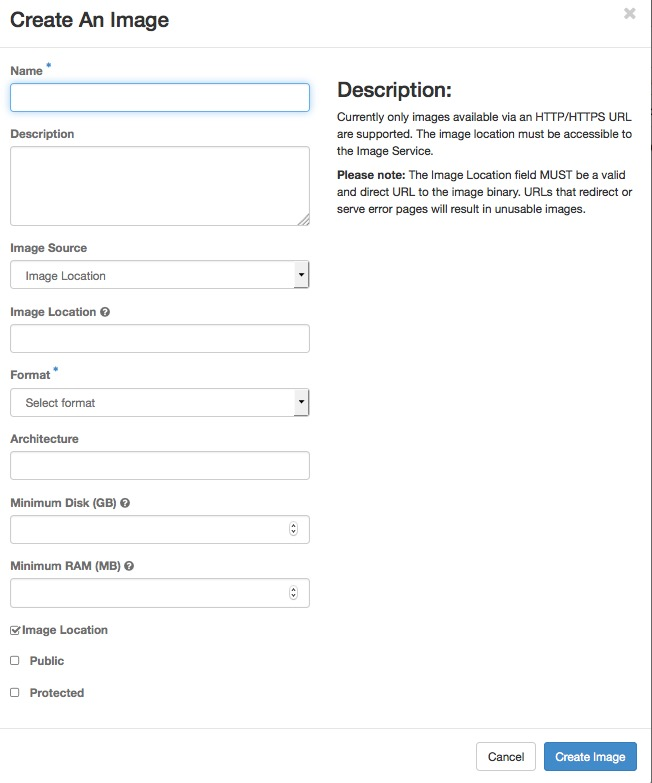
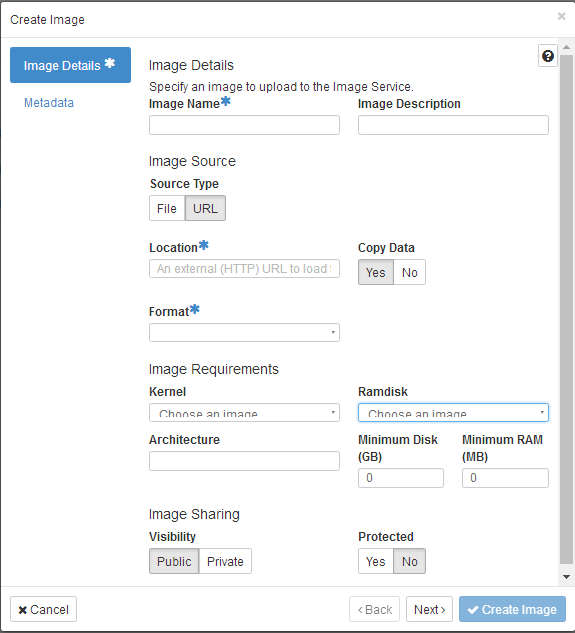
Update upload image step infomation
Now, the dialog used to upload an image has been updated.
- change create_image.png
- add metadata information

diff --git a/doc/user-guide/source/dashboard-manage-images.rst b/doc/user-guide/source/dashboard-manage-images.rst
@@ -45,9 +45,9 @@ Follow this procedure to upload an image to a project:
 #. Enter the following values:
 
    +-------------------------------+---------------------------------+
-   | :guilabel:`Name`              | Enter a name for the image.     |
+   | :guilabel:`Image Name`        | Enter a name for the image.     |
    +-------------------------------+---------------------------------+
-   | :guilabel:`Description`       | Enter a brief description of    |
+   | :guilabel:`Image Description` | Enter a brief description of    |
    |                               | the image.                      |
    +-------------------------------+---------------------------------+
    | :guilabel:`Image Source`      | Choose the image source from    |
@@ -79,15 +79,21 @@ Follow this procedure to upload an image to a project:
    | :guilabel:`Copy Data`         | Specify this option to copy     |
    |                               | image data to the Image service.|
    +-------------------------------+---------------------------------+
-   | :guilabel:`Public`            | Select this check box to make   |
-   |                               | the image public to all users   |
-   |                               | with access to the current      |
-   |                               | project.                        |
+   | :guilabel:`Visibility`        | The access permission for the   |
+   |                               | image.                          |
+   |                               | ``Public`` or ``Private``.      |
    +-------------------------------+---------------------------------+
    | :guilabel:`Protected`         | Select this check box to ensure |
    |                               | that only users with            |
    |                               | permissions can delete the      |
-   |                               | image.                          |
+   |                               | image. ``Yes`` or ``No``.       |
+   +-------------------------------+---------------------------------+
+   | :guilabel:`Image Metadata`    | Specify this option to add      |
+   |                               | resource metadata. The glance   |
+   |                               | Metadata Catalog provides a list|
+   |                               | of metadata image definitions.  |
+   |                               | (Note: Not all cloud providers  |
+   |                               | enable this feature.)           |
    +-------------------------------+---------------------------------+
 
 #. Click :guilabel:`Create Image`.
